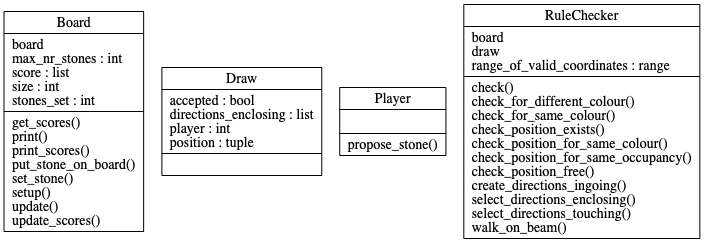
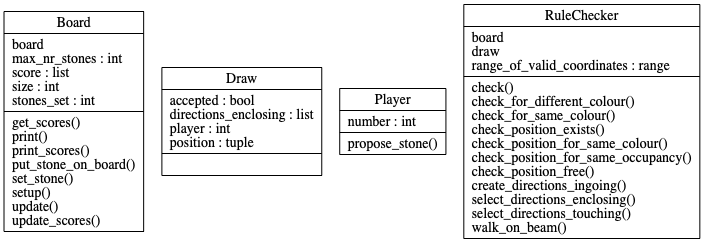
gave player a number, should connect the classes.

Changed region(s): [[0.4688, 0.4897, 0.625, 0.6626], [0.4688, 0.3457, 0.625, 0.4609]]

diff --git a/reversi.py b/reversi.py
@@ -21,14 +21,13 @@ class Player:
 
     def __init__(self):
         """initialize. Set the number. increase the number of created players."""
-        pass
+        self.number: int
 
-    def propose_stone(self, draw):
+    def propose_stone(self):
         """A player-object gets a keyboard-input from the player-human. If not successful (out of bounds, not free), no stone is set and the game continues (with the next player)."""
         colours = ['red', 'blue']
-        print("Set a "+colours[draw.player]+" stone.")
-        draw.position = input_stone_position()
-        return draw
+        print("Set a "+colours[self.number]+" stone.")
+        return input_stone_position()
 
 
 class Draw:
@@ -129,24 +128,11 @@ class RuleChecker:
         self.range_of_valid_coordinates = range(0,self.board.size-1)
 
     def check(self):
-        self.draw.accepted = False
+        sel_dir_encl = []
         if self.check_position_exists():
             if self.check_position_free():
-                self.draw.directions_enclosing  = self.select_directions_enclosing()
-                self.draw.accepted = len(self.draw.directions_enclosing)>0
-        return self.draw
-
-#    def evaluate_stone(self, player_id, position):
-#        """Check stone and set it , return True or False"""
-#        return self.set_stone(player_id, tuple(position))
-
-#    def check_stone(self, player_id, position):
-#        """Calls three other check-functions.
-#        Check if the proposed position is within the boundries of the board,
-#        if the position is free / empty and if it creates an enclosing of the stones of the opponent.
-#        """
-#        #code executes only until the first False
-#        return self.check_position_exists(position) and self.check_position_free(position) and self.check_enclose_opponent(player_id, position)
+                sel_dir_encl = self.select_directions_enclosing() 
+        return sel_dir_encl , len(sel_dir_encl)>0
 
     def check_position_exists(self, pos = None):
         """Returns True iff (pos) is on the board.
@@ -262,17 +248,17 @@ def main():
     board.print_scores()
 
     game_on = True
-    current = 0
+    player.number = 0
 
     draw = Draw()
     documentation = [Draw()] # initiallize with a draw with accepted = True so it is not empty when first used?
 
     while game_on:
         draw = Draw()
-        draw.player = current
-        draw = player.propose_stone(draw)
+        draw.player = player.number
+        draw.position = player.propose_stone()
         rule_checker = RuleChecker(board, draw)
-        draw = rule_checker.check()
+        draw.directions_enclosing , draw.accepted = rule_checker.check()
 
         if draw.accepted:
             board.put_stone_on_board(draw)
@@ -290,8 +276,7 @@ def main():
         #for d in documentation:
          #   print(d)
 
-        last = current
-        current = opponent(current)
+        player.number = opponent(player.number)
 
     print("*****************")
     print("*** game over ***")
